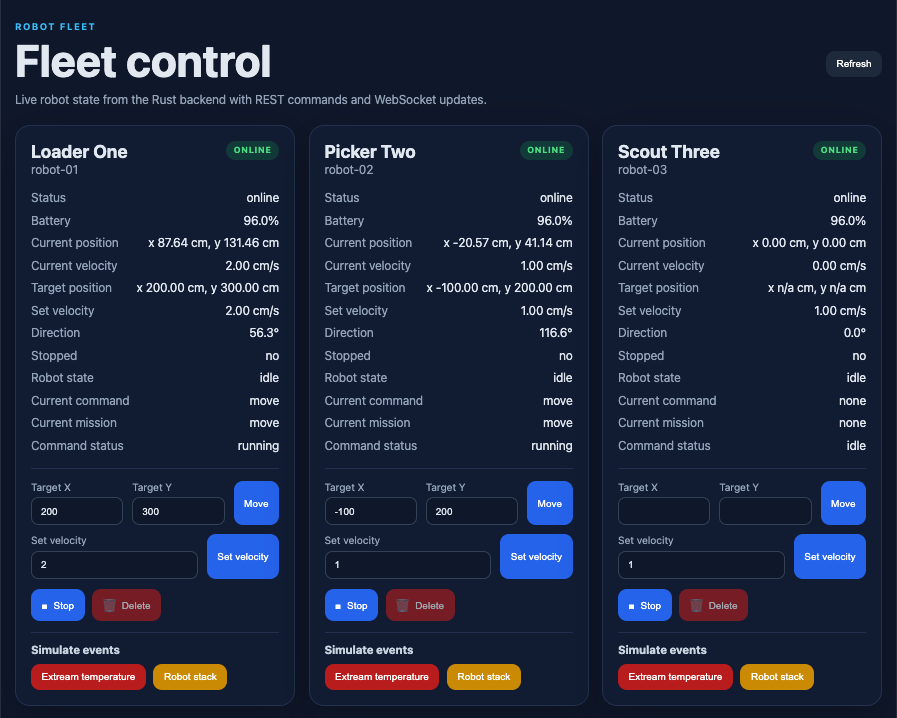
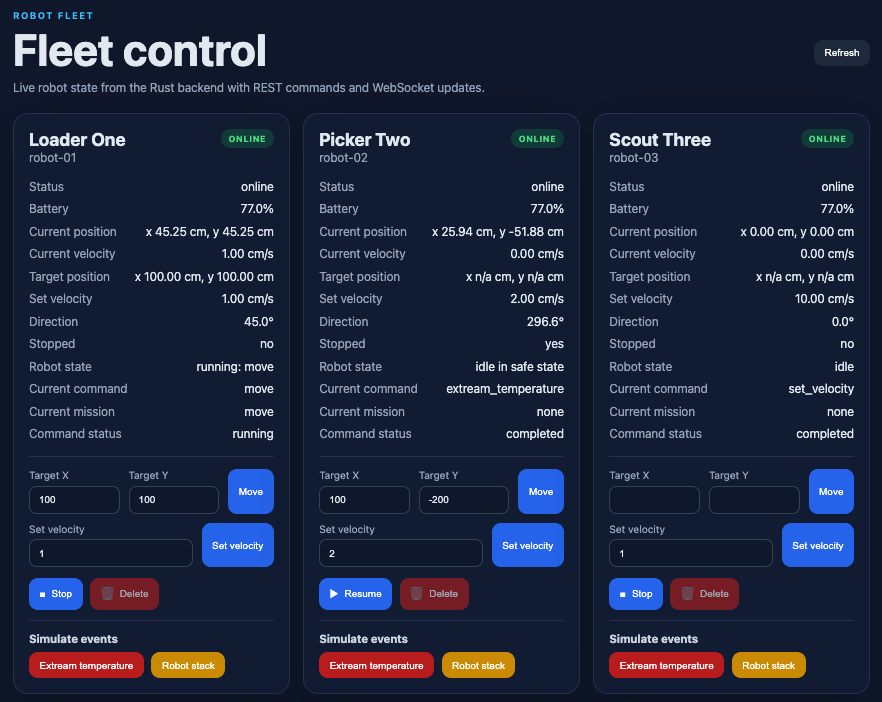
Fixed robots table update

diff --git a/backend/src/db.rs b/backend/src/db.rs
@@ -269,20 +269,37 @@ async fn insert_robot_state_history(
     state: &AppState,
     message: &StateMessage,
 ) -> Result<(), sqlx::Error> {
+    let latest_snapshot = sqlx::query(
+        "SELECT state, status, battery_level, position_x, position_y, velocity, current_mission, payload
+         FROM robot_state_history
+         WHERE robot_id = $1
+         ORDER BY recorded_at DESC
+         LIMIT 1",
+    )
+    .bind(&message.robot_id)
+    .fetch_optional(&state.pool)
+    .await?
+    .map(|row| RobotStateHistorySnapshot {
+        state: row.get("state"),
+        status: row.get("status"),
+        battery_level: row.get("battery_level"),
+        position_x: row.get("position_x"),
+        position_y: row.get("position_y"),
+        velocity: row.get("velocity"),
+        current_mission: row.get("current_mission"),
+        payload: row.get("payload"),
+    });
+
+    if latest_snapshot
+        .as_ref()
+        .is_some_and(|latest| robot_state_history_snapshot_is_duplicate(message, latest))
+    {
+        return Ok(());
+    }
+
     sqlx::query(
         "INSERT INTO robot_state_history (robot_id, recorded_at, state, status, battery_level, position_x, position_y, velocity, current_mission, payload)
-         SELECT $1, $2, $3, $4, $5, $6, $7, $8, $9, $10
-         WHERE NOT EXISTS (
-             SELECT 1
-             FROM (
-                 SELECT state
-                 FROM robot_state_history
-                 WHERE robot_id = $1
-                 ORDER BY recorded_at DESC
-                 LIMIT 1
-             ) latest
-             WHERE latest.state = $3
-         )
+         VALUES ($1, $2, $3, $4, $5, $6, $7, $8, $9, $10)
          ON CONFLICT (robot_id, recorded_at) DO NOTHING",
     )
     .bind(&message.robot_id)
@@ -305,6 +322,40 @@ async fn insert_robot_state_history(
     .execute(&state.pool)
     .await?;
     Ok(())
+}
+
+#[derive(Debug)]
+struct RobotStateHistorySnapshot {
+    state: String,
+    status: String,
+    battery_level: f64,
+    position_x: f64,
+    position_y: f64,
+    velocity: f64,
+    current_mission: Option<String>,
+    payload: Value,
+}
+
+fn robot_state_history_snapshot_is_duplicate(
+    message: &StateMessage,
+    latest: &RobotStateHistorySnapshot,
+) -> bool {
+    latest.state == message.state
+        && latest.status == message.status
+        && latest.battery_level == message.battery_level
+        && latest.position_x == message.position_x
+        && latest.position_y == message.position_y
+        && latest.velocity == message.velocity
+        && latest.current_mission == message.current_mission
+        && latest.payload
+            == serde_json::json!({
+                "set_velocity": message.set_velocity,
+                "direction_degrees": message.direction_degrees,
+                "stop": message.stop,
+                "target_position_x": message.target_position_x,
+                "target_position_y": message.target_position_y,
+                "software_version": message.software_version,
+            })
 }
 
 pub(crate) async fn insert_robot_sensor_event(
@@ -644,11 +695,17 @@ fn command_from_row(row: sqlx::postgres::PgRow) -> CommandResponse {
 #[cfg(test)]
 mod tests {
     use chrono::Utc;
-    use robot_fleet_common::{status::robot_status_from_last_seen, types::CommandResultMessage};
+    use robot_fleet_common::{
+        status::robot_status_from_last_seen,
+        types::{CommandResultMessage, StateMessage},
+    };
     use serde_json::json;
     use uuid::Uuid;
 
-    use super::{command_state_projection, CommandStateProjection};
+    use super::{
+        command_state_projection, robot_state_history_snapshot_is_duplicate,
+        CommandStateProjection, RobotStateHistorySnapshot,
+    };
 
     #[test]
     fn robot_status_is_derived_from_last_seen_age() {
@@ -701,5 +758,47 @@ mod tests {
             }
             other => panic!("unexpected projection: {other:?}"),
         }
+    }
+
+    #[test]
+    fn identical_state_history_snapshots_are_skipped() {
+        let message = StateMessage {
+            robot_id: "robot-01".into(),
+            name: "Robot 01".into(),
+            status: "online".into(),
+            battery_level: 92.5,
+            position_x: 10.0,
+            position_y: 5.0,
+            set_velocity: 1.5,
+            velocity: 1.0,
+            direction_degrees: 90.0,
+            stop: false,
+            target_position_x: Some(20.0),
+            target_position_y: Some(30.0),
+            current_mission: Some("move".into()),
+            state: "idle".into(),
+            software_version: "0.1.0".into(),
+            recorded_at: Utc::now(),
+        };
+
+        let latest = RobotStateHistorySnapshot {
+            state: message.state.clone(),
+            status: message.status.clone(),
+            battery_level: message.battery_level,
+            position_x: message.position_x,
+            position_y: message.position_y,
+            velocity: message.velocity,
+            current_mission: message.current_mission.clone(),
+            payload: json!({
+                "set_velocity": message.set_velocity,
+                "direction_degrees": message.direction_degrees,
+                "stop": message.stop,
+                "target_position_x": message.target_position_x,
+                "target_position_y": message.target_position_y,
+                "software_version": message.software_version,
+            }),
+        };
+
+        assert!(robot_state_history_snapshot_is_duplicate(&message, &latest));
     }
 }
